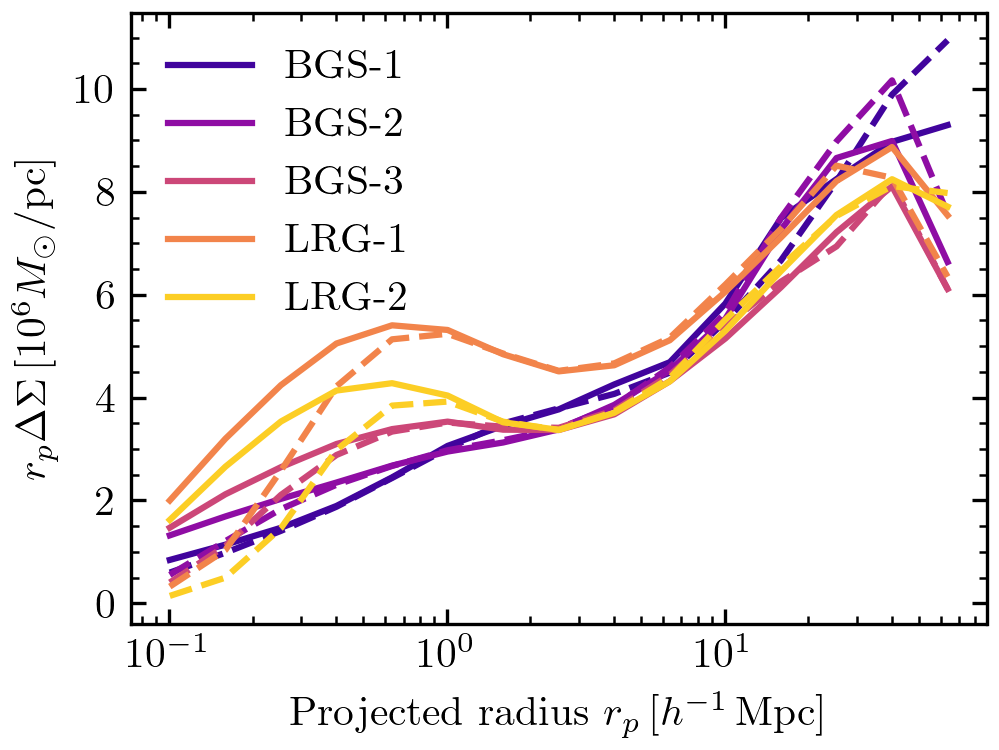
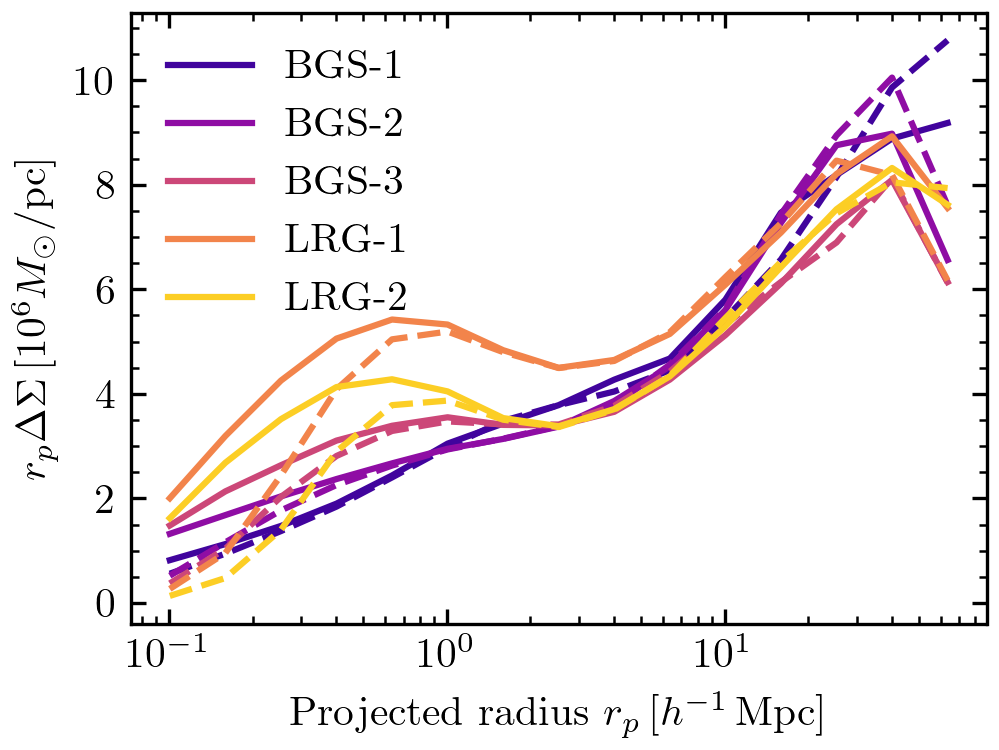
updated misc/particles

diff --git a/misc/particles/run.py b/misc/particles/run.py
@@ -93,7 +93,7 @@ if args.compute:
             8, table_r_all['ra'], table_r_all['dec'], nest=True, lonlat=True)
         table_l_all = table_l_all[np.isin(table_l_all['field_jk'], pixels)]
         table_r_all = table_r_all[np.isin(table_r_all['field_jk'], pixels)]
-        table_r_all = table_r_all[::3]
+        table_r_all = table_r_all[::2]
 
         # Account for the fact that the GGL estimator weighs lenses differently
         # depending on redshift.
@@ -109,6 +109,15 @@ if args.compute:
         if lenses == 'bgs':
             table_l_all = table_l_all[table_l_all['bright'] == 1]
             table_r_all = table_r_all[table_r_all['bright'] == 1]
+            for lens_bin in range(len(zebu.LENS_Z_BINS[lenses]) - 1):
+                table_l_all = table_l_all[np.where(
+                    np.digitize(table_l_all['z'], zebu.LENS_Z_BINS['bgs'])
+                    != lens_bin + 1, True, table_l_all['abs_mag_r'] <
+                    zebu.ABS_MAG_R_MAX[lens_bin])]
+                table_r_all = table_r_all[np.where(
+                    np.digitize(table_r_all['z'], zebu.LENS_Z_BINS['bgs'])
+                    != lens_bin + 1, True, table_r_all['abs_mag_r'] <
+                    zebu.ABS_MAG_R_MAX[lens_bin])]
 
         n = 25
         rp_bins = np.geomspace(zebu.RP_BINS[0], zebu.RP_BINS[-1],
@@ -128,11 +137,6 @@ if args.compute:
                             (table_l_all['z'] <= z_max))
                 select_r = ((table_r_all['z'] > z_min) &
                             (table_r_all['z'] <= z_max))
-                if lenses == 'bgs':
-                    select_l = select_l & (table_l_all['abs_mag_r'] <
-                                           zebu.ABS_MAG_R_MAX[lens_bin])
-                    select_r = select_r & (table_r_all['abs_mag_r'] <
-                                           zebu.ABS_MAG_R_MAX[lens_bin])
                 select_s = ((table_s_all['z'] > z_min - 0.15) &
                             (table_s_all['z'] < z_max + 0.15))
 
@@ -158,11 +162,6 @@ if args.compute:
                         (table_l_all['z'] <= z_max))
             select_r = ((table_r_all['z'] > z_min) &
                         (table_r_all['z'] <= z_max))
-            if lenses == 'bgs':
-                select_l = select_l & (table_l_all['abs_mag_r'] <
-                                       zebu.ABS_MAG_R_MAX[lens_bin])
-                select_r = select_r & (table_r_all['abs_mag_r'] <
-                                       zebu.ABS_MAG_R_MAX[lens_bin])
             table_l = table_l_all[select_l]
             table_r = table_r_all[select_r]
             table_l = compress_jackknife_fields(table_l)
@@ -215,9 +214,17 @@ if args.compute:
 
 # %%
 
+# Use the corrections for reduced shear.
+table = Table.read(zebu.BASE_PATH / 'stacks' / 'plots_relative' /
+                   'reduced_shear_ds_hsc.csv')
+table = table[table['source_bin'] == 3]
+c = np.split((table['value'].data / 100) + 1, 6)
+
+
 for lenses in ['bgs', 'lrg']:
     for lens_bin in range(len(zebu.LENS_Z_BINS[lenses]) - 1):
         results = Table.read('{}_{}.csv'.format(lenses, lens_bin))
+        results['ds_shear'] /= c[lens_bin + 3 * (lenses == 'lrg')]
         rp = np.sqrt(zebu.RP_BINS[1:] * zebu.RP_BINS[:-1])
         color = mpl.colormaps['plasma'](
             (lens_bin + (lenses == 'lrg') * 3 + 0.5) / 5.0)
@@ -241,6 +248,7 @@ fig, axarr = plt.subplots(nrows=2, sharex=True, figsize=(3.33, 3.33))
 for ax, lenses in zip(axarr, ['bgs', 'lrg']):
     for lens_bin in range(len(zebu.LENS_Z_BINS[lenses]) - 1):
         results = Table.read('{}_{}.csv'.format(lenses, lens_bin))[:-2]
+        results['ds_shear'] /= c[lens_bin + 3 * (lenses == 'lrg')][:-2]
         rp = np.sqrt(zebu.RP_BINS[1:] * zebu.RP_BINS[:-1])[:-2]
         color = mpl.colormaps['plasma'](
             (lens_bin + (lenses == 'lrg') * 3) / 5.0)
@@ -259,7 +267,7 @@ for ax in axarr:
     ax.legend(loc='best', frameon=False)
 
 axarr[0].set_ylim(0.78, 1.12)
-axarr[1].set_ylim(0.96, 1.07)
+axarr[1].set_ylim(0.955, 1.065)
 axarr[1].set_yticks(np.arange(0.97, 1.07, 0.03))
 
 plt.xscale('log')
